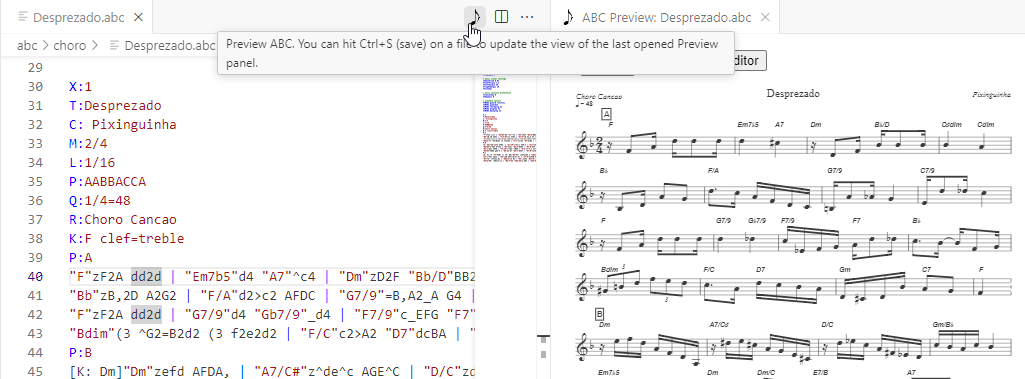
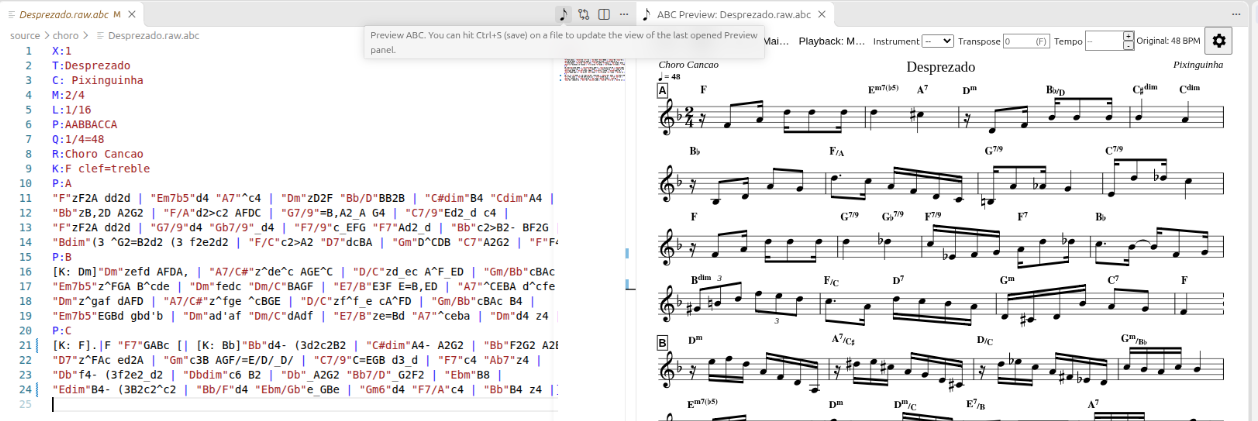
Release 0.4.12 with refined chord typography and updated screenshots

Changed region(s): [[0.0, 0.0, 0.999, 1.0]]

diff --git a/CHANGELOG.md b/CHANGELOG.md
@@ -4,7 +4,7 @@ All notable changes to the "vscode-abc-music-editor" extension will be documente
 
 Check [Keep a Changelog](http://keepachangelog.com/) for recommendations on how to structure this file.
 
-## [Unreleased]
+## [0.4.12] - 2026-11-14
 
 ### Added
 
@@ -16,6 +16,8 @@ Check [Keep a Changelog](http://keepachangelog.com/) for recommendations on how 
 
 ### Changed
 
+- Shorter Marketplace description and README with refreshed preview, playback
+  and chord grid screenshots; detailed guides are now under `docs/`.
 - Score and grid chords use upright FreeSerif Bold for readability at small
   sizes. Regular FreeSerif and both FreeSans Bold variants remain bundled for
   future font choices.

diff --git a/README.md b/README.md
@@ -24,6 +24,8 @@ Clear, colorful highlighting for ABC notation.
 
 Listen with live tempo and voice controls, and subtle measure tracking.
 
+![Playback controls](resources/readme/playback.png)
+
 ### 🔍 Selection-Based Playback
 
 Click and drag across notes or measures to play just that passage.
@@ -33,6 +35,8 @@ Click and drag across notes or measures to play just that passage.
 ### Chord Grids
 
 Switch to a compact chord-only view with optional repeated-measure symbols.
+
+![Chord grid](resources/readme/chordgrid.png)
 
 ### Personal Preferences
 
